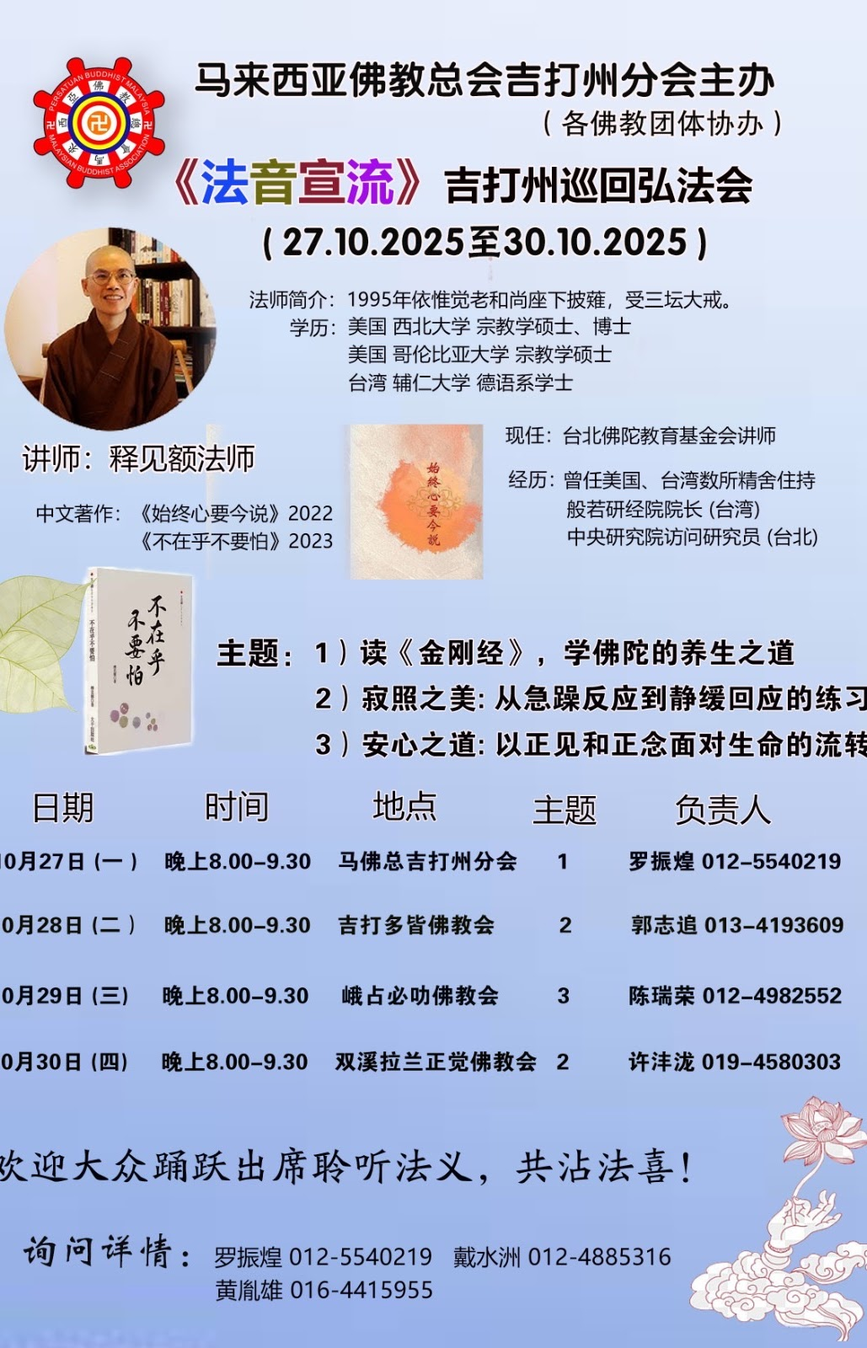
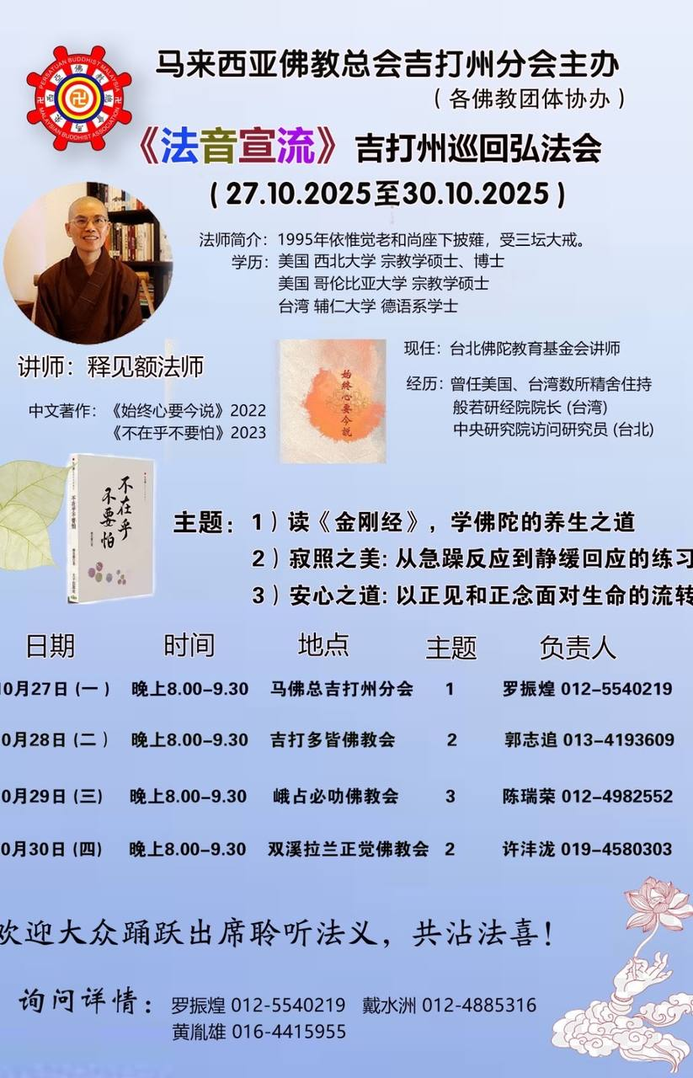
手機版重設計：漢堡選單、手機優先CSS、大圖壓縮19MB

diff --git a/style.css b/style.css
@@ -1,25 +1,69 @@
-:root{--bg:#faf7f0;--ink:#2b2b2b;--muted:#6b6259;--accent:#8a6d3b;--line:#e5ddcf;--card:#fff}
+:root{
+  --bg:#faf7f0; --ink:#2b2b2b; --muted:#6f665c; --accent:#8a6d3b; --accent-d:#6f562e;
+  --line:#e7ddcd; --card:#fff; --radius:14px;
+  --maxw:1020px; --pad:16px;
+}
 *{box-sizing:border-box}
-body{margin:0;background:var(--bg);color:var(--ink);font-family:"Noto Sans TC","Microsoft JhengHei",system-ui,sans-serif;line-height:1.8}
-header{border-bottom:1px solid var(--line);background:#fff;position:sticky;top:0;z-index:10}
-.wrap{max-width:960px;margin:0 auto;padding:0 20px}
-.nav{display:flex;align-items:center;justify-content:space-between;padding:12px 20px;max-width:960px;margin:0 auto}
-.brand{font-weight:700;font-size:20px;color:var(--ink);text-decoration:none}
+html{-webkit-text-size-adjust:100%}
+body{margin:0;background:var(--bg);color:var(--ink);
+  font-family:"Noto Sans TC","Microsoft JhengHei",system-ui,-apple-system,"Segoe UI",sans-serif;
+  font-size:17px;line-height:1.9}
+img{max-width:100%;height:auto}
+a{color:var(--accent-d)}
+
+/* ---------- header / nav (mobile first) ---------- */
+header{position:sticky;top:0;z-index:50;background:rgba(255,255,255,.96);
+  backdrop-filter:saturate(1.2) blur(6px);border-bottom:1px solid var(--line)}
+.nav{max-width:var(--maxw);margin:0 auto;padding:10px var(--pad);
+  display:flex;align-items:center;gap:12px}
+.brand{font-weight:800;font-size:19px;color:var(--ink);text-decoration:none;line-height:1.2;margin-right:auto}
 .brand small{display:block;font-size:12px;color:var(--muted);font-weight:400}
-nav.links{display:flex;flex-wrap:wrap;gap:4px 14px;font-size:15px}
-nav.links a{color:var(--ink);text-decoration:none}
-nav.links a:hover{color:var(--accent);text-decoration:underline}
-main{max-width:960px;margin:0 auto;padding:28px 20px 60px}
-.hero img,.card img{width:100%;height:auto;border-radius:10px;display:block}
-.grid{display:grid;gap:20px}
+#menu-toggle{display:none}
+.menu-btn{display:inline-flex;align-items:center;justify-content:center;
+  width:44px;height:44px;font-size:24px;line-height:1;cursor:pointer;
+  border:1px solid var(--line);border-radius:10px;background:#fff;user-select:none}
+nav.links{display:none;width:100%;padding:6px 0 10px}
+nav.links a{display:block;padding:12px 4px;font-size:17px;color:var(--ink);
+  text-decoration:none;border-top:1px solid var(--line)}
+nav.links a:first-child{border-top:0}
+#menu-toggle:checked ~ nav.links{display:block}
+.nav{flex-wrap:wrap}
+@media(min-width:860px){
+  .menu-btn{display:none}
+  .nav{flex-wrap:nowrap}
+  nav.links{display:flex !important;width:auto;gap:2px 16px;padding:0;font-size:15px;flex-wrap:wrap;justify-content:flex-end}
+  nav.links a{display:inline;padding:6px 2px;border:0}
+  nav.links a:hover{color:var(--accent);text-decoration:underline}
+}
+
+/* ---------- layout ---------- */
+main{max-width:var(--maxw);margin:0 auto;padding:20px var(--pad) 64px}
+.hero img,.card img{width:100%;height:auto;border-radius:12px;display:block;background:#eee}
+.grid{display:grid;gap:16px}
 @media(min-width:720px){.grid.cols2{grid-template-columns:1fr 1fr}}
-.card{background:var(--card);border:1px solid var(--line);border-radius:12px;padding:20px}
-.card h2{margin:0 0 8px;font-size:22px}
-.card h3{margin:18px 0 6px;font-size:18px}
-.btn{display:inline-block;padding:8px 16px;border:1px solid var(--accent);border-radius:999px;color:var(--accent);text-decoration:none;margin:6px 6px 0 0}
-.btn.solid{background:var(--accent);color:#fff}
-.meta{color:var(--muted);font-size:14px}
-footer{border-top:1px solid var(--line);padding:24px 20px;text-align:center;color:var(--muted);font-size:14px;background:#fff}
-img{max-width:100%}
-iframe.cal{width:100%;height:600px;border:0;border-radius:10px;background:#fff}
-ul.clean{padding-left:20px}
+.card{background:var(--card);border:1px solid var(--line);border-radius:var(--radius);padding:20px;margin-bottom:16px}
+.card h2{margin:0 0 10px;font-size:1.35rem;line-height:1.4}
+.card h3{margin:20px 0 8px;font-size:1.1rem}
+@media(min-width:720px){.card h2{font-size:1.55rem}}
+p{margin:.7em 0}
+.meta{color:var(--muted);font-size:.85rem}
+
+/* ---------- buttons: big tap targets on mobile ---------- */
+.btn{display:inline-flex;align-items:center;justify-content:center;min-height:44px;
+  padding:10px 20px;margin:8px 8px 0 0;border:1px solid var(--accent);border-radius:999px;
+  color:var(--accent-d);text-decoration:none;font-size:16px;background:#fff;line-height:1.4}
+.btn.solid{background:var(--accent);border-color:var(--accent);color:#fff}
+.btn:active{transform:translateY(1px)}
+@media(max-width:559px){.btn{width:100%;margin-right:0}}
+
+/* ---------- article readability ---------- */
+.card p,main li{overflow-wrap:break-word;word-break:break-word}
+ul.clean{padding-left:22px;margin:.6em 0}
+ul.clean li{margin:.45em 0}
+
+/* ---------- calendar ---------- */
+iframe.cal{width:100%;height:70vh;min-height:420px;border:0;border-radius:12px;background:#fff}
+
+/* ---------- footer ---------- */
+footer{border-top:1px solid var(--line);padding:28px var(--pad);text-align:center;
+  color:var(--muted);font-size:14px;background:#fff;line-height:1.8}

diff --git a/books.html b/books.html
@@ -1,5 +1,6 @@
-<!doctype html><html lang="zh-Hant"><head><meta charset="utf-8"><meta name="viewport" content="width=device-width,initial-scale=1"><title>出版著作｜殊曼讀心</title><link rel="stylesheet" href="style.css"></head><body>
-<header><div class="nav"><a class="brand" href="index.html">殊曼讀心<small>shifu-shuman.org</small></a><nav class="links"><a href="index.html">首頁</a><a href="jiane.html">見額法師</a><a href="faxun.html">法訊</a><a href="jueyin.html">佛法覺音</a><a href="juelv.html">菩薩覺旅</a><a href="jiaowen/index.html">殊曼覺文</a><a href="juejian.html">菩提覺見</a><a href="books.html">出版著作</a><a href="wallpaper.html">法語桌布下載</a></nav></div></header>
+<!doctype html><html lang="zh-Hant"><head><meta charset="utf-8"><meta name="viewport" content="width=device-width,initial-scale=1"><title>出版著作｜殊曼讀心</title><meta name="theme-color" content="#faf7f0">
+<link rel="stylesheet" href="style.css"></head><body>
+<header><div class="nav"><a class="brand" href="index.html">殊曼讀心<small>shifu-shuman.org</small></a><input type="checkbox" id="menu-toggle"><label for="menu-toggle" class="menu-btn" aria-label="選單">☰</label><nav class="links"><a href="index.html">首頁</a><a href="jiane.html">見額法師</a><a href="faxun.html">法訊</a><a href="jueyin.html">佛法覺音</a><a href="juelv.html">菩薩覺旅</a><a href="jiaowen/index.html">殊曼覺文</a><a href="juejian.html">菩提覺見</a><a href="books.html">出版著作</a><a href="wallpaper.html">法語桌布下載</a></nav></div></header>
 <main>
 <div class="card"><h2>Free from Attachment, Free from Fear</h2><img src="images/books-069.jpg" alt="Free from Attachment" loading="lazy"><p>見額法師《不在乎不要怕》英文版。Kindle (USD 5.99) Amazon 訂購，平裝 (NTD 250) 請於 LINE 官方帳號留言。</p><p><a class="btn" href="https://www.amazon.com/dp/0hQSWNOU" target="_blank" rel="noopener">Amazon</a></p></div>
 <div class="card"><h2>始終心要今說（修訂版）</h2><p>唐朝湛然大師〈始終心要〉註釋，以三諦為主軸，輔以三觀修習。</p><p><a class="btn" href="https://drive.google.com/file/d/1QuZf1tU1xQWXeg22ooWPbFIT91SdPDJK/view?usp=drive_link" target="_blank" rel="noopener">電子檔下載</a><a class="btn" href="https://drive.google.com/file/d/1oMvNaE0y_lysaRaw_bl_ZWez3U4RI8zt/view?usp=sharing" target="_blank" rel="noopener">各堂課摘要</a></p></div>

diff --git a/jiaowen/fodan.html b/jiaowen/fodan.html
@@ -1,5 +1,6 @@
-<!doctype html><html lang="zh-Hant"><head><meta charset="utf-8"><meta name="viewport" content="width=device-width,initial-scale=1"><title>佛誕讚偈｜殊曼覺文</title><link rel="stylesheet" href="../style.css"></head><body>
-<header><div class="nav"><a class="brand" href="../index.html">殊曼讀心<small>shifu-shuman.org</small></a><nav class="links"><a href="../index.html">首頁</a><a href="index.html">殊曼覺文</a></nav></div></header>
+<!doctype html><html lang="zh-Hant"><head><meta charset="utf-8"><meta name="viewport" content="width=device-width,initial-scale=1"><title>佛誕讚偈｜殊曼覺文</title><meta name="theme-color" content="#faf7f0">
+<link rel="stylesheet" href="../style.css"></head><body>
+<header><div class="nav"><a class="brand" href="../index.html">殊曼讀心<small>shifu-shuman.org</small></a><input type="checkbox" id="menu-toggle"><label for="menu-toggle" class="menu-btn" aria-label="選單">☰</label><nav class="links"><a href="../index.html">首頁</a><a href="index.html">殊曼覺文</a></nav></div></header>
 <main><div class="card"><h2>佛誕讚偈（紀念三〇二七佛誕）</h2><p class="meta">見額法師｜曾刊登於中台禪寺《三〇二七年佛誕專刊》</p>
 <p><strong>一、如來八相示現</strong><br>觀因緣，入娑婆，菩薩發心降兜率。乘白象，披瓔珞，釋迦文佛託母胎。嵐毗尼，無憂樹，右脅清淨出胎來。溫泉煖，冷泉沁，九龍吐水滌塵埃。行七步，七蓮開，天上人間唯我哉。辭雙親，割情愛，唯是一身大自在。捨華服，剃鬚髮，誓成無上等正覺。菩提樹，金剛座，深妙禪定諸魔非。睹明星，不思議，中道實相大徹開。七七載，轉法輪，廣度群機出苦海。四聖諦，聲聞證，苦集滅道超三界。因緣法，辟支覺，無明斷盡老死絕。六度圓，彼岸來，施戒忍進定慧賅。一佛乘，無上法，惺惺寂寂非去來。雙林中，般涅槃，法身常住未嘗衰。勉四眾，勤出道，常當一心見如來。</p>
 <p><strong>二、得佛受用</strong><br>佛法僧，功德聚，住持三寶為皈依。卅二相，佛金色，普照三千界光明。投五體，禮佛足，捨除我慢淨心地。效佛行，匡己行，進退行止具威儀。習佛言，正己言，妙語善言悉合宜。以佛心，為己心，去惡捨善終歸一。</p>

diff --git a/jiaowen/jueyuan.html b/jiaowen/jueyuan.html
@@ -1,5 +1,6 @@
-<!doctype html><html lang="zh-Hant"><head><meta charset="utf-8"><meta name="viewport" content="width=device-width,initial-scale=1"><title>心是絕緣體？覺源體？｜殊曼覺文</title><link rel="stylesheet" href="../style.css"></head><body>
-<header><div class="nav"><a class="brand" href="../index.html">殊曼讀心<small>shifu-shuman.org</small></a><nav class="links"><a href="../index.html">首頁</a><a href="index.html">殊曼覺文</a></nav></div></header>
+<!doctype html><html lang="zh-Hant"><head><meta charset="utf-8"><meta name="viewport" content="width=device-width,initial-scale=1"><title>心是絕緣體？覺源體？｜殊曼覺文</title><meta name="theme-color" content="#faf7f0">
+<link rel="stylesheet" href="../style.css"></head><body>
+<header><div class="nav"><a class="brand" href="../index.html">殊曼讀心<small>shifu-shuman.org</small></a><input type="checkbox" id="menu-toggle"><label for="menu-toggle" class="menu-btn" aria-label="選單">☰</label><nav class="links"><a href="../index.html">首頁</a><a href="index.html">殊曼覺文</a></nav></div></header>
 <main><div class="card"><h2>心是絕緣體？覺源體？</h2><p class="meta">見額法師</p>
 <p>世尊和祖師大德皆訓勉學人都攝六根，不令攀緣六塵。《遺教經》亦云，六根如牛，因此須時時看牢之，不令其犯人苗稼。因為六根如賊，無時無刻不在劫奪我們的功德法財，修行人怎能縱此宵小，令其一犯再犯，而不知悔改？</p>
 <p>心有妄想心（攀緣心）及真如心。妄想心有生滅，一個念頭接著一個念頭，相續不斷，因此眾生每日皆活在相續的假相之中，卻不自覺。眼見色，耳聞聲，鼻嗅香，舌嘗味，身覺觸，意知法。六根一再攀緣諸塵境，不知歇息，即是不知一切境界皆幻化不實，所以被其矇騙了億萬劫！恩師惟覺老和尚在基隆十方大覺寺領大寮職事時，頂戴斗笠，不令遠視，此即是讓心成為「絕緣體」，欲令心體不染一塵一垢，自性湛然圓明現前，此是就心之體以及自我的解脫修行而言。唯有息諸緣慮方能令狂性自歇，成就無上菩提，誠如《華嚴經》所云：「不起染污心，必成菩提道。」</p>

diff --git a/juejian.html b/juejian.html
@@ -1,5 +1,6 @@
-<!doctype html><html lang="zh-Hant"><head><meta charset="utf-8"><meta name="viewport" content="width=device-width,initial-scale=1"><title>菩提覺見｜殊曼讀心</title><link rel="stylesheet" href="style.css"></head><body>
-<header><div class="nav"><a class="brand" href="index.html">殊曼讀心<small>shifu-shuman.org</small></a><nav class="links"><a href="index.html">首頁</a><a href="jiane.html">見額法師</a><a href="faxun.html">法訊</a><a href="jueyin.html">佛法覺音</a><a href="juelv.html">菩薩覺旅</a><a href="jiaowen/index.html">殊曼覺文</a><a href="juejian.html">菩提覺見</a><a href="books.html">出版著作</a><a href="wallpaper.html">法語桌布下載</a></nav></div></header>
+<!doctype html><html lang="zh-Hant"><head><meta charset="utf-8"><meta name="viewport" content="width=device-width,initial-scale=1"><title>菩提覺見｜殊曼讀心</title><meta name="theme-color" content="#faf7f0">
+<link rel="stylesheet" href="style.css"></head><body>
+<header><div class="nav"><a class="brand" href="index.html">殊曼讀心<small>shifu-shuman.org</small></a><input type="checkbox" id="menu-toggle"><label for="menu-toggle" class="menu-btn" aria-label="選單">☰</label><nav class="links"><a href="index.html">首頁</a><a href="jiane.html">見額法師</a><a href="faxun.html">法訊</a><a href="jueyin.html">佛法覺音</a><a href="juelv.html">菩薩覺旅</a><a href="jiaowen/index.html">殊曼覺文</a><a href="juejian.html">菩提覺見</a><a href="books.html">出版著作</a><a href="wallpaper.html">法語桌布下載</a></nav></div></header>
 <main><div class="card"><h2>菩提覺見</h2>
 <p><strong>Q：佛，存有人性嗎？</strong><br>A：是的，佛也有人性。佛的人性是對人的理解與體貼、包容，並非「食色性也」這類的人性。</p>
 <p><strong>Q：常聽人說「放下屠刀，立地成佛」，如此來看，對善人是不是比惡人不公平？</strong><br>A：既然惡人都可立地成佛，善人當然更可以呀。這句話重點在鼓勵惡人回頭是岸，不能一直向惡、造惡業。人生是有光明轉機的，就看是否願意放下造惡的心念和行為，轉而向善。</p>

diff --git a/jiaowen/bantubufei.html b/jiaowen/bantubufei.html
@@ -1,5 +1,6 @@
-<!doctype html><html lang="zh-Hant"><head><meta charset="utf-8"><meta name="viewport" content="width=device-width,initial-scale=1"><title>半途不廢｜殊曼覺文</title><link rel="stylesheet" href="../style.css"></head><body>
-<header><div class="nav"><a class="brand" href="../index.html">殊曼讀心<small>shifu-shuman.org</small></a><nav class="links"><a href="../index.html">首頁</a><a href="index.html">殊曼覺文</a></nav></div></header>
+<!doctype html><html lang="zh-Hant"><head><meta charset="utf-8"><meta name="viewport" content="width=device-width,initial-scale=1"><title>半途不廢｜殊曼覺文</title><meta name="theme-color" content="#faf7f0">
+<link rel="stylesheet" href="../style.css"></head><body>
+<header><div class="nav"><a class="brand" href="../index.html">殊曼讀心<small>shifu-shuman.org</small></a><input type="checkbox" id="menu-toggle"><label for="menu-toggle" class="menu-btn" aria-label="選單">☰</label><nav class="links"><a href="../index.html">首頁</a><a href="index.html">殊曼覺文</a></nav></div></header>
 <main><div class="card"><h2>半途不廢</h2><p class="meta">見額法師</p>
 <p>最近，接到昔日學生的一封信，信上提及她在抄寫《普門品》，但是，總覺得自己抄得不好，對自己很沒信心，很想放棄。</p>
 <p>這封信讓我想到以前看過的一則故事。曾經，有一個人發願要游泳越過海洋，剛開始時，他信心滿滿，覺得自己已努力了許久，不僅在體力上的培養已相當足夠，在精神方面也十分有自信，覺得這次勝券在握，絕對沒什麼問題。但是，在他泳渡海洋的過程中，突然起了大霧，使得他看不清楚前方，他的心愈來愈不安，惶恐自己究竟離目的地還有多遠……心力交瘁之際，只好無奈地宣告放棄。而此時，那些在岸邊引頸企盼，等著為他歡呼喝采的觀眾，聽到這個消息時，都為他感到惋惜，一雙雙等著鼓掌的手，無力地垂了下來。他們也對他的不堅持覺得失望，因為他只差幾公尺就到岸邊了。他真的是太早放棄了！</p>

diff --git a/wallpaper.html b/wallpaper.html
@@ -1,3 +1,4 @@
-<!doctype html><html lang="zh-Hant"><head><meta charset="utf-8"><meta name="viewport" content="width=device-width,initial-scale=1"><title>法語桌布下載｜殊曼讀心</title><link rel="stylesheet" href="style.css"></head><body>
-<header><div class="nav"><a class="brand" href="index.html">殊曼讀心<small>shifu-shuman.org</small></a><nav class="links"><a href="index.html">首頁</a><a href="jiane.html">見額法師</a><a href="faxun.html">法訊</a><a href="jueyin.html">佛法覺音</a><a href="juelv.html">菩薩覺旅</a><a href="jiaowen/index.html">殊曼覺文</a><a href="juejian.html">菩提覺見</a><a href="books.html">出版著作</a><a href="wallpaper.html">法語桌布下載</a></nav></div></header>
+<!doctype html><html lang="zh-Hant"><head><meta charset="utf-8"><meta name="viewport" content="width=device-width,initial-scale=1"><title>法語桌布下載｜殊曼讀心</title><meta name="theme-color" content="#faf7f0">
+<link rel="stylesheet" href="style.css"></head><body>
+<header><div class="nav"><a class="brand" href="index.html">殊曼讀心<small>shifu-shuman.org</small></a><input type="checkbox" id="menu-toggle"><label for="menu-toggle" class="menu-btn" aria-label="選單">☰</label><nav class="links"><a href="index.html">首頁</a><a href="jiane.html">見額法師</a><a href="faxun.html">法訊</a><a href="jueyin.html">佛法覺音</a><a href="juelv.html">菩薩覺旅</a><a href="jiaowen/index.html">殊曼覺文</a><a href="juejian.html">菩提覺見</a><a href="books.html">出版著作</a><a href="wallpaper.html">法語桌布下載</a></nav></div></header>
 <main><div class="card"><h2>法語桌布下載</h2><p>舊站共 40+ 張桌布，搬遷中。請先到原站下載，本站 images/wallpaper/ 會陸續補上。</p><p><a class="btn" href="https://sites.google.com/view/shuman-shi/%E6%B3%95%E8%AA%9E%E6%A1%8C%E5%B8%83%E4%B8%8B%E8%BC%89" target="_blank" rel="noopener">先到舊站下載</a></p></div></main><footer>Copyright © 2025 殊曼讀心<br>Email : buddhaworld2000@gmail.com</footer></body></html>

diff --git a/jueyin.html b/jueyin.html
@@ -1,5 +1,6 @@
-<!doctype html><html lang="zh-Hant"><head><meta charset="utf-8"><meta name="viewport" content="width=device-width,initial-scale=1"><title>佛法覺音｜殊曼讀心</title><link rel="stylesheet" href="style.css"></head><body>
-<header><div class="nav"><a class="brand" href="index.html">殊曼讀心<small>shifu-shuman.org</small></a><nav class="links"><a href="index.html">首頁</a><a href="jiane.html">見額法師</a><a href="faxun.html">法訊</a><a href="jueyin.html">佛法覺音</a><a href="juelv.html">菩薩覺旅</a><a href="jiaowen/index.html">殊曼覺文</a><a href="juejian.html">菩提覺見</a><a href="books.html">出版著作</a><a href="wallpaper.html">法語桌布下載</a></nav></div></header>
+<!doctype html><html lang="zh-Hant"><head><meta charset="utf-8"><meta name="viewport" content="width=device-width,initial-scale=1"><title>佛法覺音｜殊曼讀心</title><meta name="theme-color" content="#faf7f0">
+<link rel="stylesheet" href="style.css"></head><body>
+<header><div class="nav"><a class="brand" href="index.html">殊曼讀心<small>shifu-shuman.org</small></a><input type="checkbox" id="menu-toggle"><label for="menu-toggle" class="menu-btn" aria-label="選單">☰</label><nav class="links"><a href="index.html">首頁</a><a href="jiane.html">見額法師</a><a href="faxun.html">法訊</a><a href="jueyin.html">佛法覺音</a><a href="juelv.html">菩薩覺旅</a><a href="jiaowen/index.html">殊曼覺文</a><a href="juejian.html">菩提覺見</a><a href="books.html">出版著作</a><a href="wallpaper.html">法語桌布下載</a></nav></div></header>
 <main><div class="card"><h2>佛法覺音</h2><img src="images/jueyin-037.jpg" alt="佛法覺音" loading="lazy"><ul class="clean">
 <li>六祖壇經 — <a href="https://youtube.com/playlist?list=PLfrzQZUhZFCqrzG1bv2ORYkxwe1DJ9_YA&si=VyZxrOJ6He5BEgmq" target="_blank" rel="noopener">觀看影片</a></li>
 <li>法華經全景 — <a href="https://youtu.be/G_KniQ7W1Eg?si=11mSq69jShaTW9lJ" target="_blank" rel="noopener">觀看影片</a></li>

diff --git a/jiaowen/index.html b/jiaowen/index.html
@@ -1,5 +1,6 @@
-<!doctype html><html lang="zh-Hant"><head><meta charset="utf-8"><meta name="viewport" content="width=device-width,initial-scale=1"><title>出版著作｜殊曼讀心</title><link rel="stylesheet" href="../style.css"></head><body>
-<header><div class="nav"><a class="brand" href="../index.html">殊曼讀心<small>shifu-shuman.org</small></a><nav class="links"><a href="../index.html">首頁</a><a href="../jiane.html">見額法師</a><a href="../faxun.html">法訊</a><a href="../jueyin.html">佛法覺音</a><a href="../juelv.html">菩薩覺旅</a><a href="index.html">殊曼覺文</a><a href="../juejian.html">菩提覺見</a><a href="../books.html">出版著作</a><a href="../wallpaper.html">法語桌布下載</a></nav></div></header>
+<!doctype html><html lang="zh-Hant"><head><meta charset="utf-8"><meta name="viewport" content="width=device-width,initial-scale=1"><title>出版著作｜殊曼讀心</title><meta name="theme-color" content="#faf7f0">
+<link rel="stylesheet" href="../style.css"></head><body>
+<header><div class="nav"><a class="brand" href="../index.html">殊曼讀心<small>shifu-shuman.org</small></a><input type="checkbox" id="menu-toggle"><label for="menu-toggle" class="menu-btn" aria-label="選單">☰</label><nav class="links"><a href="../index.html">首頁</a><a href="../jiane.html">見額法師</a><a href="../faxun.html">法訊</a><a href="../jueyin.html">佛法覺音</a><a href="../juelv.html">菩薩覺旅</a><a href="index.html">殊曼覺文</a><a href="../juejian.html">菩提覺見</a><a href="../books.html">出版著作</a><a href="../wallpaper.html">法語桌布下載</a></nav></div></header>
 <main><div class="grid cols2">
 <div class="card"><h3>心是絕緣體？覺源體？</h3><p>見額法師｜攝六根、絕緣與結緣、覺源體</p><a class="btn" href="jueyuan.html">閱讀全文</a></div>
 <div class="card"><h3>心是顛倒的煮飯鍋</h3><p>見額法師｜本具佛性、正置與倒置的飯鍋</p><a class="btn" href="fanfan.html">閱讀全文</a></div>

diff --git a/juelv.html b/juelv.html
@@ -1,3 +1,4 @@
-<!doctype html><html lang="zh-Hant"><head><meta charset="utf-8"><meta name="viewport" content="width=device-width,initial-scale=1"><title>菩薩覺旅｜殊曼讀心</title><link rel="stylesheet" href="style.css"></head><body>
-<header><div class="nav"><a class="brand" href="index.html">殊曼讀心<small>shifu-shuman.org</small></a><nav class="links"><a href="index.html">首頁</a><a href="jiane.html">見額法師</a><a href="faxun.html">法訊</a><a href="jueyin.html">佛法覺音</a><a href="juelv.html">菩薩覺旅</a><a href="jiaowen/index.html">殊曼覺文</a><a href="juejian.html">菩提覺見</a><a href="books.html">出版著作</a><a href="wallpaper.html">法語桌布下載</a></nav></div></header>
+<!doctype html><html lang="zh-Hant"><head><meta charset="utf-8"><meta name="viewport" content="width=device-width,initial-scale=1"><title>菩薩覺旅｜殊曼讀心</title><meta name="theme-color" content="#faf7f0">
+<link rel="stylesheet" href="style.css"></head><body>
+<header><div class="nav"><a class="brand" href="index.html">殊曼讀心<small>shifu-shuman.org</small></a><input type="checkbox" id="menu-toggle"><label for="menu-toggle" class="menu-btn" aria-label="選單">☰</label><nav class="links"><a href="index.html">首頁</a><a href="jiane.html">見額法師</a><a href="faxun.html">法訊</a><a href="jueyin.html">佛法覺音</a><a href="juelv.html">菩薩覺旅</a><a href="jiaowen/index.html">殊曼覺文</a><a href="juejian.html">菩提覺見</a><a href="books.html">出版著作</a><a href="wallpaper.html">法語桌布下載</a></nav></div></header>
 <main><div class="card"><h2>菩薩覺旅</h2><h3>斯里蘭卡覺旅</h3><h3>正授皈依儀式</h3><p class="meta">舊站此頁以照片為主，文字較少。搬遷時請補上日期與說明，照片轉存到 images/ 後在此展示。</p></div></main><footer>Copyright © 2025 殊曼讀心<br>Email : buddhaworld2000@gmail.com</footer></body></html>

diff --git a/jiaowen/fangwei.html b/jiaowen/fangwei.html
@@ -1,5 +1,6 @@
-<!doctype html><html lang="zh-Hant"><head><meta charset="utf-8"><meta name="viewport" content="width=device-width,initial-scale=1"><title>過度防衛｜殊曼覺文</title><link rel="stylesheet" href="../style.css"></head><body>
-<header><div class="nav"><a class="brand" href="../index.html">殊曼讀心<small>shifu-shuman.org</small></a><nav class="links"><a href="../index.html">首頁</a><a href="index.html">殊曼覺文</a></nav></div></header>
+<!doctype html><html lang="zh-Hant"><head><meta charset="utf-8"><meta name="viewport" content="width=device-width,initial-scale=1"><title>過度防衛｜殊曼覺文</title><meta name="theme-color" content="#faf7f0">
+<link rel="stylesheet" href="../style.css"></head><body>
+<header><div class="nav"><a class="brand" href="../index.html">殊曼讀心<small>shifu-shuman.org</small></a><input type="checkbox" id="menu-toggle"><label for="menu-toggle" class="menu-btn" aria-label="選單">☰</label><nav class="links"><a href="../index.html">首頁</a><a href="index.html">殊曼覺文</a></nav></div></header>
 <main><div class="card"><h2>過度防衛</h2><p class="meta">見額法師｜曾刊登於《中台世界—禪林衲子心》</p>
 <p>洗手台上不知名的小蟲子，腹部朝天，正努力想要翻轉過來。好心碰碰牠想助一臂之力，哪知牠一感覺外力侵入，馬上蜷起來，久久無法鬆開。觀察一二分鐘，牠終於放鬆，可能放心覺得外力沒了。</p>
 <p>我們對他人的幫助是否也是如此？當別人好意伸出手，可能是握手打招呼、拉一把、分享資訊。但我們的防衛機制警告：「小心，別被騙了！」於是寧可錯過百千善心幫助，也不願誤信一個壞人。不斷拒絕別人，善意的人也會退縮，拒我們於千里之外，因為我們不斷釋放「別靠近我」的信號。</p>

diff --git a/faxun.html b/faxun.html
@@ -1,5 +1,6 @@
-<!doctype html><html lang="zh-Hant"><head><meta charset="utf-8"><meta name="viewport" content="width=device-width,initial-scale=1"><title>法訊｜殊曼讀心</title><link rel="stylesheet" href="style.css"></head><body>
-<header><div class="nav"><a class="brand" href="index.html">殊曼讀心<small>shifu-shuman.org</small></a><nav class="links"><a href="index.html">首頁</a><a href="jiane.html">見額法師</a><a href="faxun.html">法訊</a><a href="jueyin.html">佛法覺音</a><a href="juelv.html">菩薩覺旅</a><a href="jiaowen/index.html">殊曼覺文</a><a href="juejian.html">菩提覺見</a><a href="books.html">出版著作</a><a href="wallpaper.html">法語桌布下載</a></nav></div></header>
+<!doctype html><html lang="zh-Hant"><head><meta charset="utf-8"><meta name="viewport" content="width=device-width,initial-scale=1"><title>法訊｜殊曼讀心</title><meta name="theme-color" content="#faf7f0">
+<link rel="stylesheet" href="style.css"></head><body>
+<header><div class="nav"><a class="brand" href="index.html">殊曼讀心<small>shifu-shuman.org</small></a><input type="checkbox" id="menu-toggle"><label for="menu-toggle" class="menu-btn" aria-label="選單">☰</label><nav class="links"><a href="index.html">首頁</a><a href="jiane.html">見額法師</a><a href="faxun.html">法訊</a><a href="jueyin.html">佛法覺音</a><a href="juelv.html">菩薩覺旅</a><a href="jiaowen/index.html">殊曼覺文</a><a href="juejian.html">菩提覺見</a><a href="books.html">出版著作</a><a href="wallpaper.html">法語桌布下載</a></nav></div></header>
 <main>
 <div class="card"><h2>法訊｜2026 弘法行事曆</h2>
 <p>(1) 行事曆上有一年度的完整活動，持續更新中<br>(2) 點擊每個活動名稱，可獲得更多資訊<br>(3) 歡迎將所有活動加到您的個人行事曆中</p>
